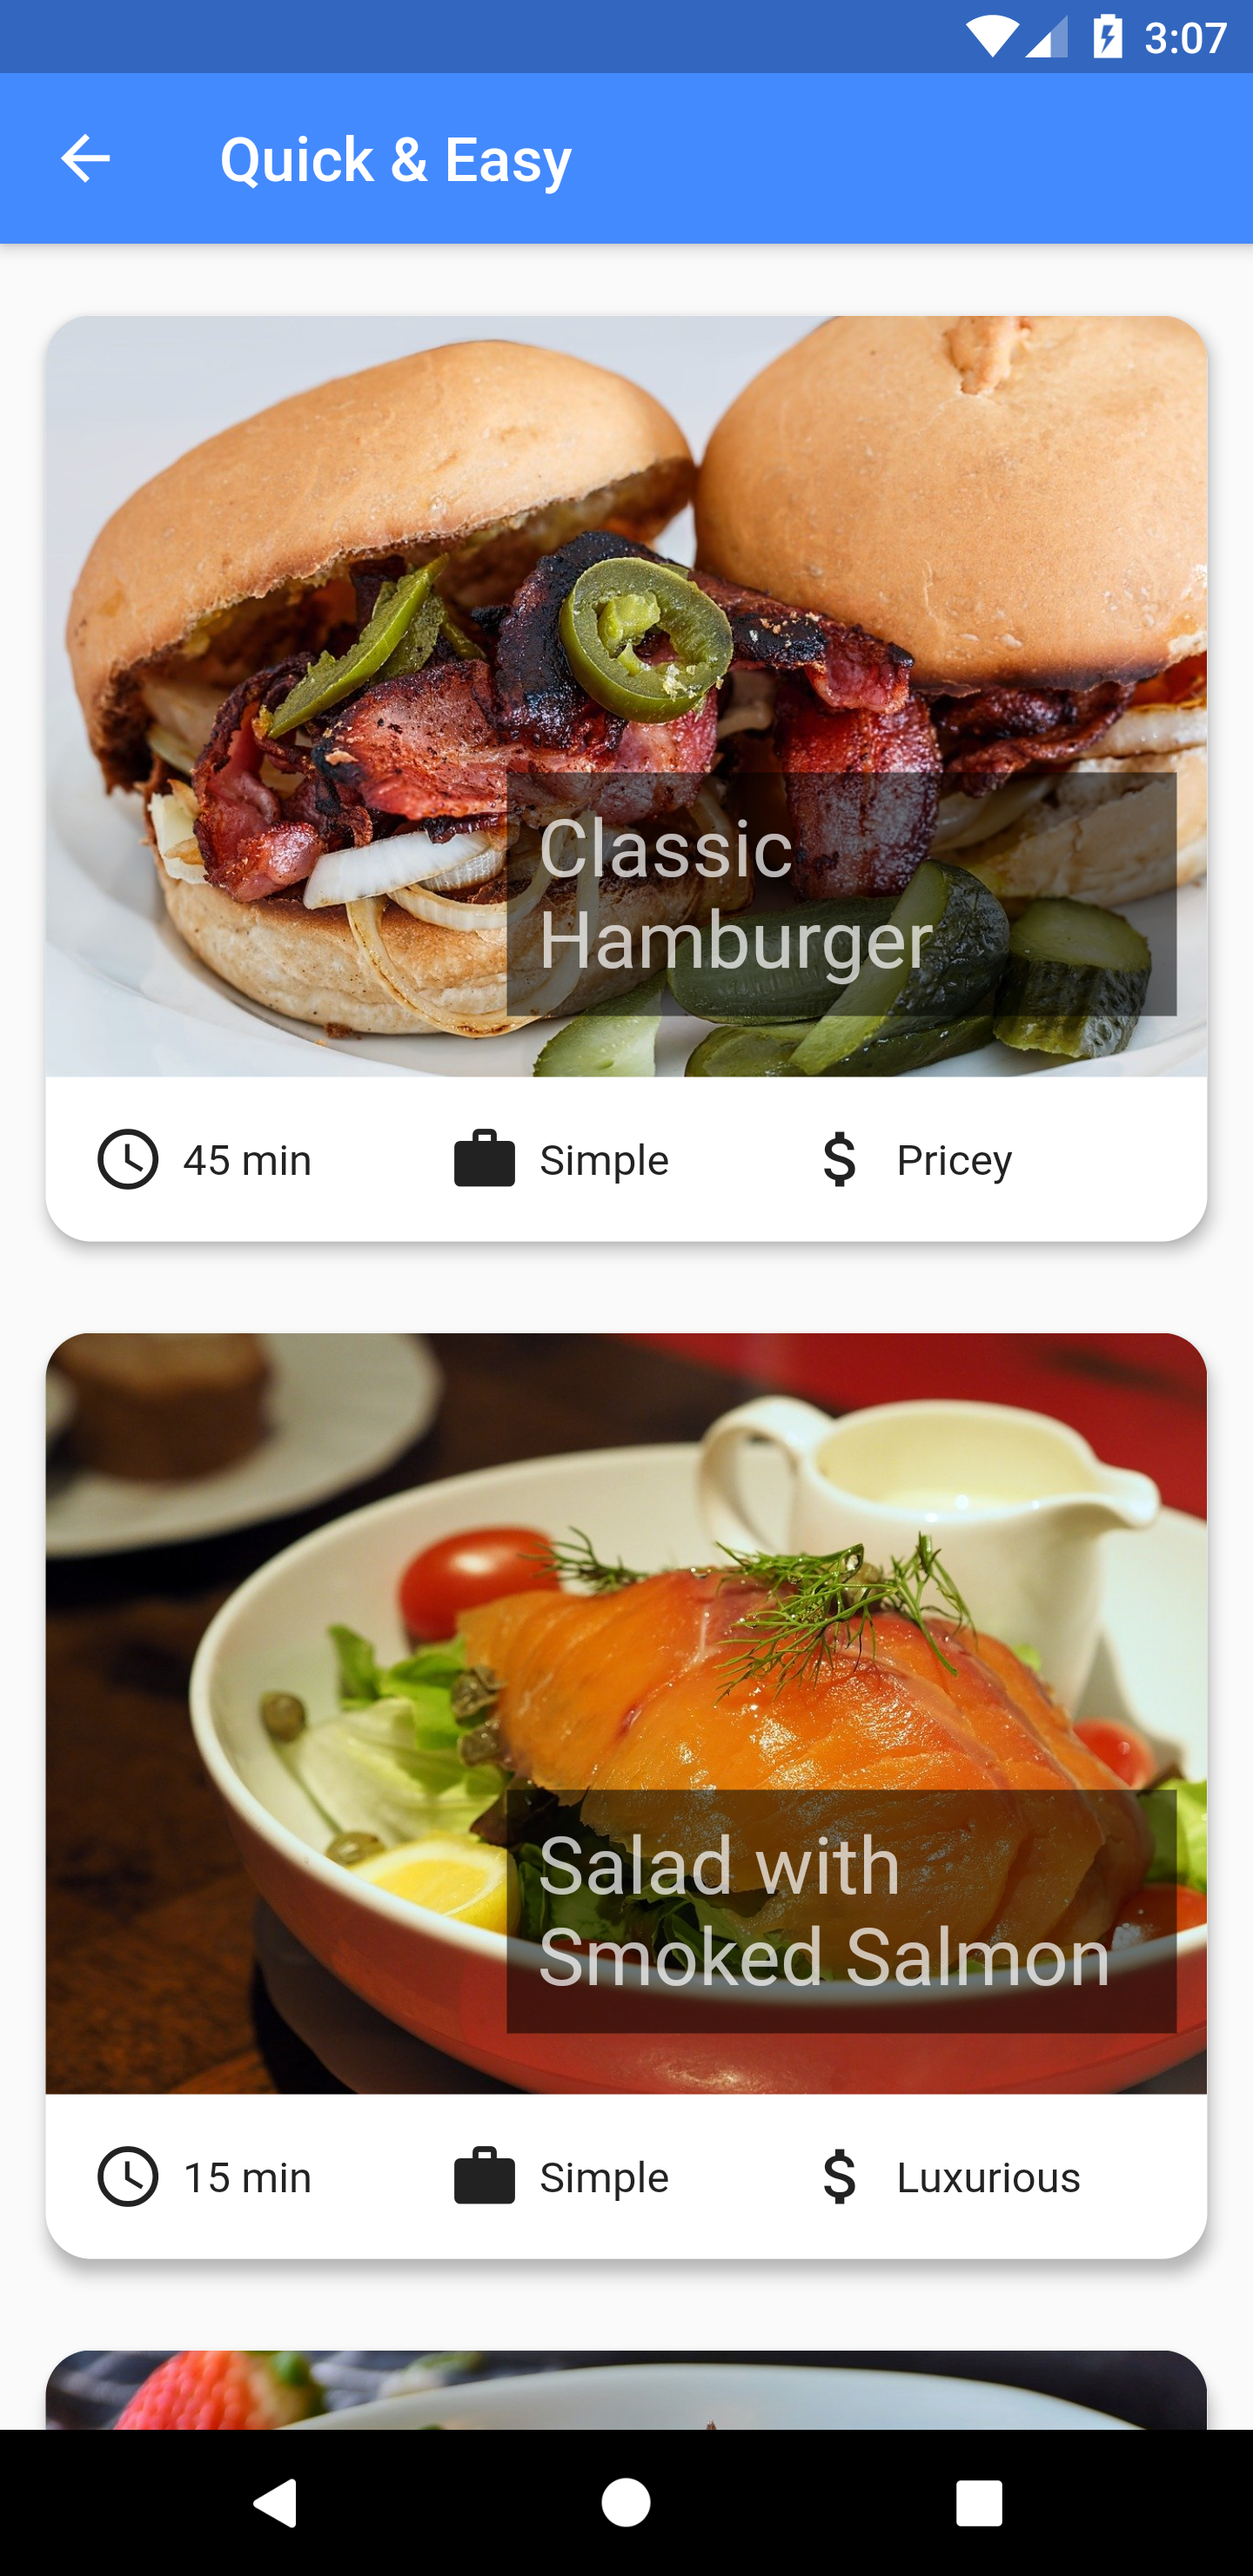
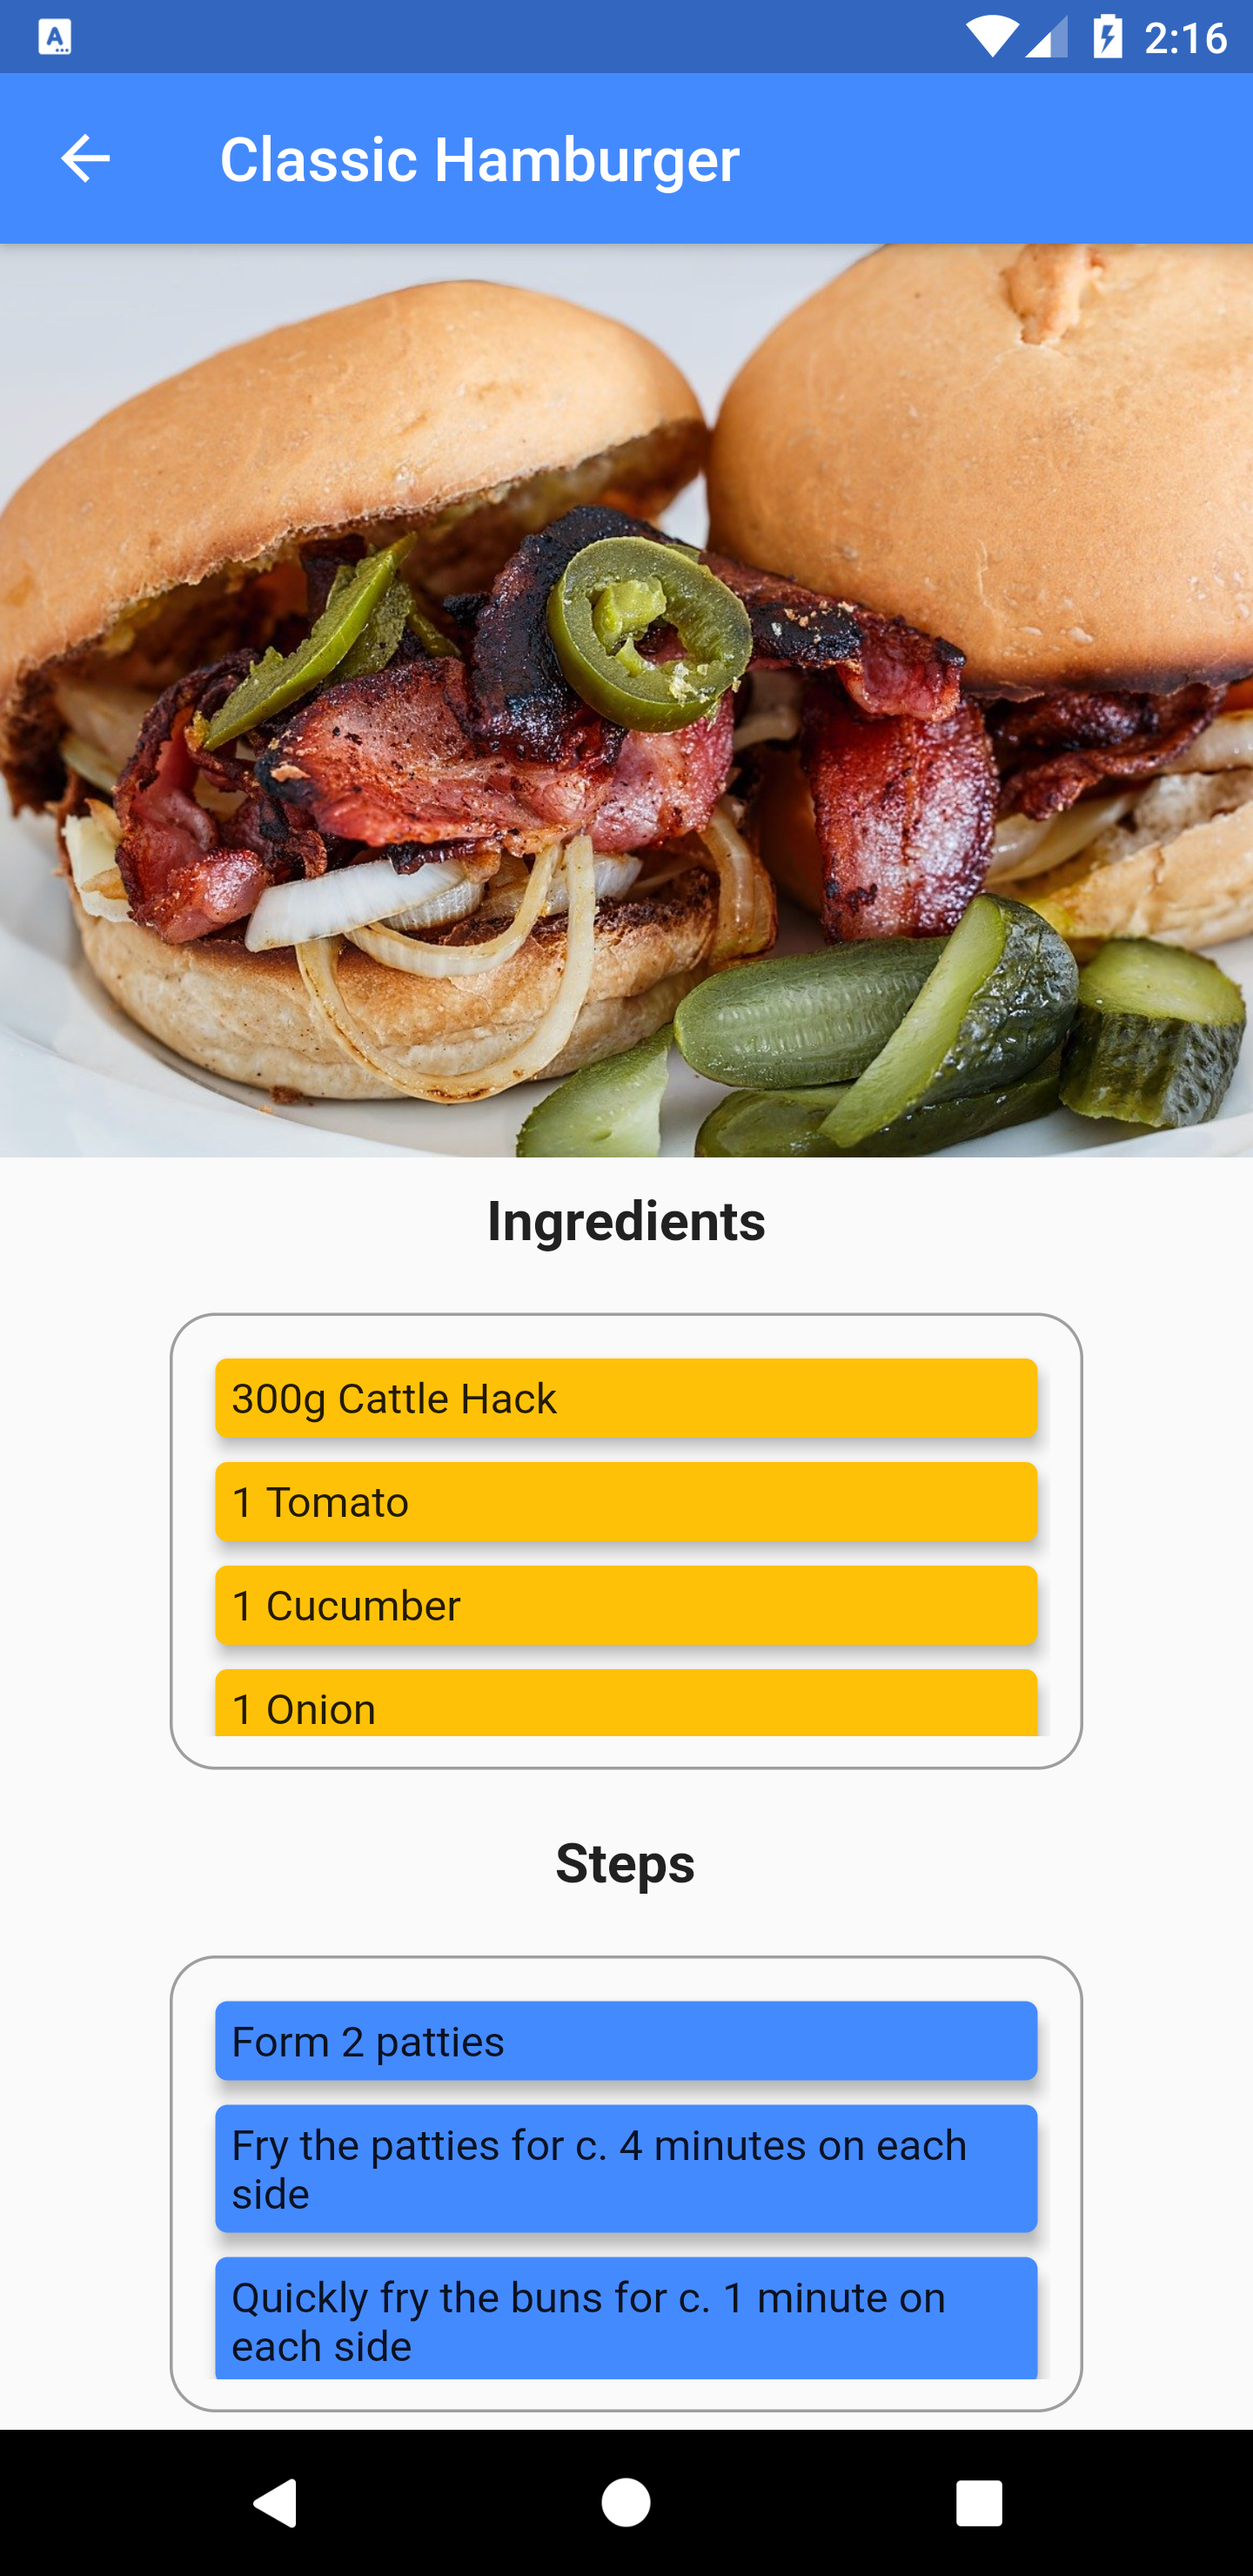
Added Steps

diff --git a/MealsApp/lib/recepies/widgets/RecepieDetail/Configuration/ListContainer.dart b/MealsApp/lib/recepies/widgets/RecepieDetail/Configuration/ListContainer.dart
@@ -1,0 +1,36 @@
+import 'package:flutter/material.dart';
+import '../../../../models/Meals.dart';
+
+class ListContainer extends StatelessWidget {
+  final Widget Function(String content) childHandler;
+  final List<String> list;
+  final double height;
+  final double width;
+
+  ListContainer({
+    @required this.childHandler,
+    @required this.list,
+    @required this.height,
+    @required this.width,
+  });
+
+  @override
+  Widget build(BuildContext context) {
+    return Container(
+      decoration: BoxDecoration(
+        border: Border.all(
+          color: Colors.grey,
+        ),
+        borderRadius: BorderRadius.circular(15),
+      ),
+      padding: EdgeInsets.all(10),
+      margin: EdgeInsets.all(10),
+      child: ListView.builder(
+        itemBuilder: (ctx, index) => childHandler(list[index]),
+        itemCount: list.length,
+      ),
+      height: height,
+      width: width,
+    );
+  }
+}

diff --git a/MealsApp/lib/RecepieDetailsPage.dart b/MealsApp/lib/RecepieDetailsPage.dart
@@ -1,0 +1,27 @@
+import 'package:MealsApp/utility/ErrorPage.dart';
+import 'package:flutter/material.dart';
+
+import './dummyData.dart';
+import './models/Meals.dart';
+import './utility/DefaultPage.dart';
+import './recepies/widgets/RecepieDetail/RecepieDetail.dart';
+
+class RecepieDetailsPage extends StatelessWidget {
+  static const String routeName = '/recepieDetails';
+
+  Widget build(BuildContext context) {
+    final Map<String, Object> routeArguments =
+        ModalRoute.of(context).settings.arguments;
+
+    final String recepieId = routeArguments["id"];
+
+    final Meal item = DUMMY_MEALS.firstWhere(
+      (element) => element.id == recepieId,
+      orElse: () => null,
+    );
+
+    return (item != null)
+        ? DefaultPage(pageTitle: item.title, pageBody: RecepieDetail(item))
+        : ErrorPage();
+  }
+}

diff --git a/MealsApp/lib/recepies/widgets/RecepieDetail/Ingredients/IngredientsListView.dart b/MealsApp/lib/recepies/widgets/RecepieDetail/Ingredients/IngredientsListView.dart
@@ -1,0 +1,40 @@
+import 'package:flutter/material.dart';
+
+import '../../../../models/Meals.dart';
+import '../Configuration/CardView.dart';
+import '../Configuration/ListContainer.dart';
+
+class IngredientsListView extends StatelessWidget {
+  final Meal item;
+
+  IngredientsListView(this.item);
+
+  Color getCardColor(BuildContext context) {
+    return Theme.of(context).accentColor;
+  }
+
+  List<String> get list {
+    return item.ingredients;
+  }
+
+  double get height {
+    return 150;
+  }
+
+  double get width {
+    return 300;
+  }
+
+  @override
+  Widget build(BuildContext context) {
+    return ListContainer(
+      childHandler: (content) => CardView(
+        text: content,
+        color: getCardColor(context),
+      ),
+      list: list,
+      height: height,
+      width: width,
+    );
+  }
+}

diff --git a/MealsApp/lib/main.dart b/MealsApp/lib/main.dart
@@ -3,6 +3,8 @@ import 'package:flutter/material.dart';
 import './HomePage.dart';
 import './utility/GeneralTheme.dart';
 import './RecepiesPage.dart';
+import './RecepieDetailsPage.dart';
+import './utility/MyConfigurations.dart';
 
 void main() {
   runApp(MyApp());
@@ -10,8 +12,11 @@ void main() {
 
 class MyApp extends StatelessWidget {
   final String title = "Meals App";
+
   @override
   Widget build(BuildContext context) {
+    MyConfigurations().setDeviceOrientation();
+
     return MaterialApp(
       debugShowCheckedModeBanner: false,
       title: title,
@@ -19,6 +24,7 @@ class MyApp extends StatelessWidget {
       routes: {
         '/': (_) => HomePage(),
         RecepiesPage.routeName: (_) => RecepiesPage(),
+        RecepieDetailsPage.routeName: (_) => RecepieDetailsPage(),
       },
     );
   }

diff --git a/MealsApp/lib/recepies/configuration/RecepieCard.dart b/MealsApp/lib/recepies/configuration/RecepieCard.dart
@@ -4,18 +4,22 @@ import './RecepieConfig.dart';
 
 class RecepieCard extends StatelessWidget {
   final Widget child;
+  final Function onTapHandler;
 
-  RecepieCard(this.child);
+  RecepieCard({@required this.child, @required this.onTapHandler});
 
   @override
   Widget build(BuildContext context) {
-    return Card(
-      child: child,
-      shape: RoundedRectangleBorder(
-        borderRadius: BorderRadius.circular(RecepieConfig.itemBorderRadius),
+    return InkWell(
+      onTap: onTapHandler,
+      child: Card(
+        child: child,
+        shape: RoundedRectangleBorder(
+          borderRadius: BorderRadius.circular(RecepieConfig.itemBorderRadius),
+        ),
+        margin: EdgeInsets.all(15),
+        elevation: 4,
       ),
-      margin: EdgeInsets.all(15),
-      elevation: 4,
     );
   }
 }

diff --git a/MealsApp/lib/recepies/RecepieItem.dart b/MealsApp/lib/recepies/RecepieItem.dart
@@ -4,16 +4,25 @@ import '../models/Meals.dart';
 import './widgets/RecepieStack/RecepieStack.dart';
 import './configuration/RecepieCard.dart';
 import './widgets/RecepieBottomRow/RecepieBottomRow.dart';
+import '../RecepieDetailsPage.dart';
 
 class RecepieItem extends StatelessWidget {
   final Meal item;
 
   RecepieItem(this.item);
 
+  void onTapHandler(BuildContext context) {
+    Navigator.of(context).pushNamed(
+      RecepieDetailsPage.routeName,
+      arguments: {"id": item.id},
+    );
+  }
+
   @override
   Widget build(BuildContext context) {
     return RecepieCard(
-      Column(
+      onTapHandler: () => onTapHandler(context),
+      child: Column(
         children: <Widget>[
           RecepieStack(item),
           RecepieBottomRow(item),

diff --git a/MealsApp/lib/recepies/widgets/RecepieDetail/RecepieDetail.dart b/MealsApp/lib/recepies/widgets/RecepieDetail/RecepieDetail.dart
@@ -1,0 +1,28 @@
+import 'package:flutter/material.dart';
+
+import './RecepieDetailImage.dart';
+import '../../../models/Meals.dart';
+import './RecepieDetailHeading.dart';
+import './Ingredients/IngredientsListView.dart';
+import './Steps/StepsListView.dart';
+
+class RecepieDetail extends StatelessWidget {
+  final Meal item;
+
+  RecepieDetail(this.item);
+
+  @override
+  Widget build(BuildContext context) {
+    return SingleChildScrollView(
+      child: Column(
+        children: <Widget>[
+          RecepieDetailImage(item),
+          RecepieDetailHeading("Ingredients"),
+          IngredientsListView(item),
+          RecepieDetailHeading("Steps"),
+          StepsListView(item),
+        ],
+      ),
+    );
+  }
+}

diff --git a/MealsApp/lib/RecepiesPage.dart b/MealsApp/lib/RecepiesPage.dart
@@ -1,6 +1,7 @@
 import 'package:flutter/material.dart';
 
 import './recepies/MyRecepies.dart';
+import './utility/DefaultPage.dart';
 
 class RecepiesPage extends StatelessWidget {
   static const String routeName = '/recepies';
@@ -15,11 +16,6 @@ class RecepiesPage extends StatelessWidget {
     final String title = routeArguments["title"];
     final String categoryId = routeArguments["id"];
 
-    return Scaffold(
-      appBar: AppBar(
-        title: Text(title),
-      ),
-      body: MyRecepies(categoryId),
-    );
+    return DefaultPage(pageTitle: title, pageBody: MyRecepies(categoryId));
   }
 }

diff --git a/MealsApp/lib/HomePage.dart b/MealsApp/lib/HomePage.dart
@@ -1,14 +1,13 @@
 import 'package:flutter/material.dart';
 
 import './categories/CategoriesScreen.dart';
+import './utility/DefaultPage.dart';
 
 class HomePage extends StatelessWidget {
   Widget build(BuildContext context) {
-    return Scaffold(
-      appBar: AppBar(
-        title: Text("My Categories"),
-      ),
-      body: CategoriesScreen(),
+    return DefaultPage(
+      pageTitle: "My Categories",
+      pageBody: CategoriesScreen(),
     );
   }
 }

diff --git a/MealsApp/lib/recepies/widgets/RecepieDetail/Configuration/CardView.dart b/MealsApp/lib/recepies/widgets/RecepieDetail/Configuration/CardView.dart
@@ -1,0 +1,19 @@
+import 'package:flutter/material.dart';
+
+class CardView extends StatelessWidget {
+  final String text;
+  final Color color;
+
+  CardView({@required this.text, @required this.color});
+  @override
+  Widget build(BuildContext context) {
+    return Card(
+      child: Container(
+        child: Text(text),
+        padding: EdgeInsets.all(5),
+      ),
+      color: color,
+      elevation: 4,
+    );
+  }
+}

diff --git a/MealsApp/lib/recepies/widgets/RecepieDetail/Steps/StepsListView.dart b/MealsApp/lib/recepies/widgets/RecepieDetail/Steps/StepsListView.dart
@@ -1,0 +1,17 @@
+import 'package:flutter/material.dart';
+import '../Ingredients/IngredientsListView.dart';
+import '../../../../models/Meals.dart';
+
+class StepsListView extends IngredientsListView {
+  final Meal item;
+
+  StepsListView(this.item) : super(item);
+
+  Color getCardColor(BuildContext context) {
+    return Theme.of(context).primaryColor;
+  }
+
+  List<String> get list {
+    return item.steps;
+  }
+}

diff --git a/MealsApp/lib/utility/DefaultPage.dart b/MealsApp/lib/utility/DefaultPage.dart
@@ -1,0 +1,17 @@
+import 'package:flutter/material.dart';
+
+class DefaultPage extends StatelessWidget {
+  final String pageTitle;
+  final Widget pageBody;
+
+  DefaultPage({@required this.pageTitle, @required this.pageBody});
+  @override
+  Widget build(BuildContext context) {
+    return Scaffold(
+      appBar: AppBar(
+        title: Text(pageTitle),
+      ),
+      body: pageBody,
+    );
+  }
+}
